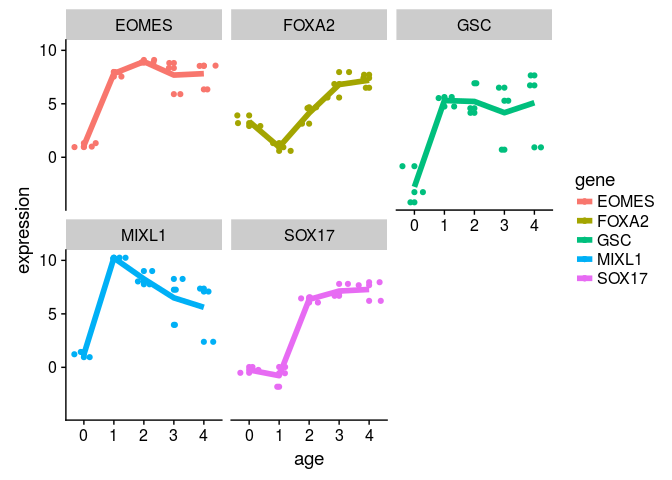
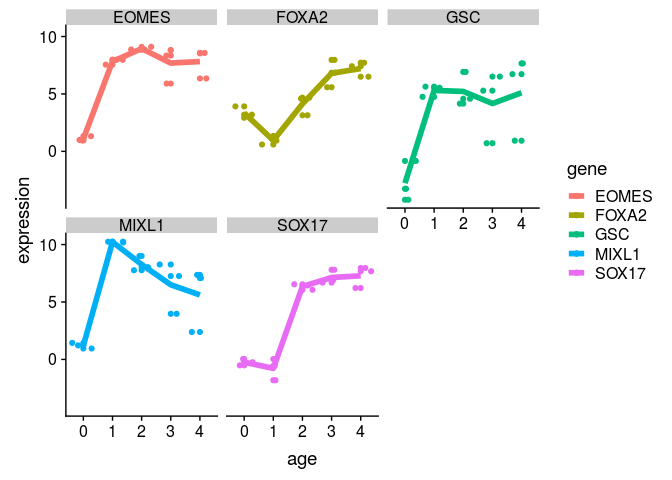
saved DE data for 109658 (for enrichment analysis)

diff --git a/analysis_of_public_data/GSE109658/GSE109658_data_analysis.md b/analysis_of_public_data/GSE109658/GSE109658_data_analysis.md
@@ -584,6 +584,7 @@ head(commonGenesTrends) %>% kable()
 
 ``` r
 contrastMatrix <- makeContrasts(
+  age1vage0 = age1 - age0,
   age3vage0 = age3 - age0,
   age4vage0 = age4 - age0,
   levels = designMatrix
@@ -602,10 +603,10 @@ time_course_res <- decideTests(contrastFitEb, p.value = cutoff, lfc = 2)
 summary(time_course_res)
 ```
 
-    ##        age3vage0 age4vage0
-    ## Down        1072       990
-    ## NotSig     12610     12608
-    ## Up          1535      1619
+    ##        age1vage0 age3vage0 age4vage0
+    ## Down         441      1072       990
+    ## NotSig     14195     12610     12608
+    ## Up           581      1535      1619
 
 ``` r
 upRegulated109658 <- time_course_res %>%
@@ -626,6 +627,78 @@ save(upRegulated109658, file="upRegulated109658.Rdata")
 save(downRegulated109658, file="downRegulated109658.Rdata")
 ```
 
+for CMAP (top 150 from up and 150 from down)
+============================================
+
+``` r
+load("../../common_upRegulated_52158_109658.Rdata")
+load("../../common_downRegulated_52158_109658.Rdata")
+
+#not sure here...
+genRef <- topTable(contrastFitEb, number = Inf, p.value=cutoff, lfc=1, coef = 'age4vage0')
+
+#taking upregulated genes
+referenceUpregulated <- genRef[common_upRegulated_3,]
+referenceUpregulated <-  referenceUpregulated[with(referenceUpregulated, order(adj.P.Val)), ]
+referenceUpregulatedLogSorted <- referenceUpregulated[with(referenceUpregulated, order(logFC, decreasing = T)), ]
+
+#taking downregulated genes
+referenceDownregulated <- genRef[common_downRegulated_3,]
+referenceDownregulated <-  referenceDownregulated[with(referenceDownregulated, order(adj.P.Val)), ]
+referenceDownregulatedLogSorted <- referenceDownregulated[with(referenceDownregulated, order(logFC)), ]
+
+#take 150 upregulated genes (by logFC)
+first_up <- rownames(referenceUpregulatedLogSorted)[1:150]
+fileConn<-file("~/Papers/CMAP/common_Upregulated_3_109658_LogSorted.grp")
+writeLines(first_up, fileConn)
+close(fileConn)
+
+#take 150 downregulated genes (by logFC)
+first_down <- rownames(referenceDownregulatedLogSorted)[1:150]
+fileConn2<-file("~/Papers/CMAP/common_Downregulated_3_109658_LogSorted.grp")
+writeLines(first_down, fileConn2)
+close(fileConn2)
+```
+
+To array probes:
+
+``` r
+x <- hgu133aSYMBOL
+# Get the probe identifiers - gene symbol mappings
+mapped_probes <- mappedkeys(x)
+# Convert to a dataframe
+genesym.probeid <- as.data.frame(x[mapped_probes])
+head(genesym.probeid)
+```
+
+    ##    probe_id symbol
+    ## 1   1053_at   RFC2
+    ## 2    117_at  HSPA6
+    ## 3    121_at   PAX8
+    ## 4 1255_g_at GUCA1A
+    ## 5   1316_at   THRA
+    ## 6   1320_at PTPN21
+
+``` r
+probe_up <- genesym.probeid %>%
+  filter(symbol %in% first_up) 
+
+probe_up <- probe_up$probe_id
+
+probe_down <- genesym.probeid %>%
+  filter(symbol %in% first_down) 
+
+probe_down <- probe_down$probe_id
+
+fileConn2<-file("~/Papers/CMAP/common_Downregulated_3_109658_LogSortedProbes.grp")
+writeLines(probe_down, fileConn2)
+close(fileConn2)
+
+fileConn2<-file("~/Papers/CMAP/common_Upregulated_3_109658_LogSortedProbes.grp")
+writeLines(probe_up, fileConn2)
+close(fileConn2)
+```
+
 Gene set enrichment analysis of GSE109658
 =========================================
 
@@ -633,6 +706,15 @@ Gene set enrichment analysis of GSE109658
 if (!file.exists("GO.xml")) { goToday("GO.xml") }
 
 DEgenes_0h_96h <- topTable(contrastFitEb, number = Inf, coef = "age4vage0")
+DEgenes_0h_24h <- topTable(contrastFitEb, number = Inf, coef = "age1vage0")
+
+#for pathway enrichment analysis
+DEgenes_0h_96h_109658 <- DEgenes_0h_96h
+DEgenes_0h_24h_109658 <- DEgenes_0h_24h
+save(DEgenes_0h_96h_109658, file = "DEgenes_0h_96h_109658.Rdata")
+save(DEgenes_0h_24h_109658, file = "DEgenes_0h_24h_109658.Rdata")
+################################
+
 
 ggplot(data = DEgenes_0h_96h, aes(x = logFC, y = -log(adj.P.Val), color = (-log(adj.P.Val) > 3)))+
   scale_colour_manual(name = 'p-value < 0.05', values = setNames(c('red','black'),c(T, F)), labels = c("False", "True"))+
@@ -660,7 +742,7 @@ ggplot(data = DEgenes_0h_96h, aes(x = logFC, y = -log(adj.P.Val), color = (-log(
         legend.title=element_text(size=14))
 ```
 
-![](GSE109658_data_analysis_files/figure-markdown_github/unnamed-chunk-40-1.png)
+![](GSE109658_data_analysis_files/figure-markdown_github/unnamed-chunk-43-1.png)
 
 ``` r
 ermineInputGeneScores <- DEgenes_0h_96h %>% 
@@ -707,11 +789,11 @@ enrichmentResult$results %>% arrange(MFPvalue) %>% head(10) %>% kable()
 | cell fate commitment                     | <GO:0045165> |        165|       164|  0.0527511|     0|                0|     0e+00|          0.0000000|               0.993| NA      | ACVR1|APC|APC2|ARHGEF2|ARX|AXIN1|BCL11B|BCL2|BMP2|BMP4|BRAF|CASP3|CDC42|CDC73|CDON|CEBPB|CHD5|CTNNB1|CTR9|CYLD|CYP26B1|DLL1|DLX2|DMRTA2|DOCK7|DSCAML1|EOMES|EPAS1|EPOP|ERBB4|ETS2|ETV2|EVX1|EYA1|EYA2|FEV|FGF10|FGF13|FGF8|FGFR2|FKBP8|FOXA1|FOXA2|FOXN4|GAP43|GAS1|GATA2|GATA3|GATA4|GATA5|GATA6|GLI2|GLI3|GSC|HES1|HEY2|HNF1B|ID2|IFRD1|IHH|IL6|IRF4|ISL1|ISL2|ITGB1|JAG1|JAG2|KDM6B|KLF4|LATS1|LATS2|LEO1|MCL1|MESP1|MITF|MNX1|NANOG|NKX2-5|NKX6-1|NODAL|NOTCH1|NOTCH2|NOTCH3|NOTCH4|NR2F2|NRG1|NRP1|NTF4|NTRK3|OLIG2|ONECUT2|PAF1|PAX2|PAX6|PAX7|PDPN|PITX1|PML|POU5F1|POU6F2|PPARG|PPDPF|PRDM1|PRDM14|PRKDC|PROX1|PRRX1|PSEN1|PTCH1|PTCH2|RAB10|RARA|RBPJ|RHOA|ROR2|RORA|RTF1|RUNX2|SATB2|SFRP1|SH3PXD2B|SIX1|SIX2|SMAD1|SMAD2|SMAD4|SMAD5|SMO|SOX12|SOX17|SOX18|SOX2|SOX5|SOX6|SOX8|SOX9|SPN|SPRY2|STAT3|STAT6|SUFU|TBR1|TBX19|TBX2|TBX3|TBX6|TCF3|TCF7L2|TEAD3|TGFB1I1|TGFBR1|WNT11|WNT2B|WNT3|WNT3A|WNT4|WNT5A|WNT5B|WNT6|WNT8A|WNT9B|WT1|ZFPM1|ZNF521|                                                                                                                                                |
 | embryonic skeletal system morphogenesis  | <GO:0048704> |         73|        73|  0.0310772|     0|                0|     0e+00|          0.0000000|               0.876| NA      | ALX1|ALX3|AXIN1|BMP4|BMP7|CHST11|COL11A1|COL2A1|CTNNB1|DLG1|DLX2|DSCAML1|EIF4A3|EYA1|FGFR2|FLVCR1|FUZ|GLI3|GNAS|GRHL2|GSC|HOXA1|HOXA3|HOXB1|HOXB2|HOXB3|HOXB4|HOXB5|HOXB6|HOXB7|HOXB8|HYAL1|IFT140|IRX5|LHX1|MDFI|MED12|MEGF8|MMP14|MMP16|MTHFD1|MTHFD1L|MYCN|NDST1|NIPBL|NODAL|NOG|PCGF2|PDGFRA|PRRX1|RDH10|RUNX2|SATB2|SETD2|SHOX2|SIX1|SIX2|SIX4|SLC39A1|SLC39A3|SMAD2|SMAD3|SOX11|TFAP2A|TGFB3|TGFBR1|TGFBR2|TULP3|TWIST1|WDR19|WDR60|WNT9B|ZEB1|                                                                                                                                                                                                                                                                                                                                                                                                                                                                                                                                                                                                                                                          |
 | skeletal system morphogenesis            | <GO:0048705> |        160|       160|  0.0364407|     0|                0|     0e+00|          0.0000000|               0.965| NA      | ACP5|ACVR2B|ALPL|ALX1|ALX3|ANKRD11|ARID5B|AXIN1|AXIN2|BMP1|BMP4|BMP6|BMP7|BMPR1B|BMPR2|CARM1|CDX1|CER1|CHST11|CHSY1|COL11A1|COL13A1|COL1A1|COL27A1|COL2A1|CSGALNACT1|CSRNP1|CTGF|CTNNB1|CYP26B1|DHRS3|DLG1|DLX2|DLX5|DSCAML1|EIF4A3|EYA1|FBN2|FGF18|FGF4|FGFR1|FGFR2|FGFR3|FLVCR1|FMN1|FOXC1|FOXN3|FREM1|FUZ|GLG1|GLI3|GNAS|GRHL2|GSC|HAS2|HHIP|HOXA1|HOXA3|HOXB1|HOXB2|HOXB3|HOXB4|HOXB5|HOXB6|HOXB7|HOXB8|HYAL1|HYAL2|IFT140|IFT80|IHH|IMPAD1|INPPL1|INSIG1|INSIG2|IRX5|LHX1|LRP5|MAPK14|MDFI|MED12|MEF2D|MEGF8|MMP14|MMP16|MMP2|MSX1|MSX2|MTHFD1|MTHFD1L|MYCN|NAB1|NAB2|NDST1|NIPBL|NLE1|NODAL|NOG|NPPC|PAPPA2|PCGF2|PDGFRA|PEX7|PHOSPHO1|PKD1|PLEKHA1|POC1A|PPARGC1B|PRKRA|PRRX1|PSEN1|RAB23|RAB33B|RARA|RARB|RARG|RDH10|ROR2|RUNX2|SATB2|SERPINH1|SETD2|SFRP1|SFRP2|SGPL1|SH3PXD2B|SHOX2|SIX1|SIX2|SIX4|SKI|SLC39A1|SLC39A3|SMAD2|SMAD3|SOX11|SOX9|SP5|STC1|TCF15|TEK|TFAP2A|TGFB1|TGFB3|TGFBR1|TGFBR2|THBS3|THRA|TIPARP|TRIP11|TRPV4|TULP3|TWIST1|WDR19|WDR48|WDR60|WNT9B|WWOX|ZEB1|ZFAND5|                                                                                                              |
+| embryonic skeletal system development    | <GO:0048706> |         94|        93|  0.0345763|     0|                0|     0e+00|          0.0000000|               0.966| NA      | ACVR2A|ALX1|ALX3|AXIN1|BMP4|BMP7|CHST11|COL11A1|COL1A1|COL2A1|CTNNB1|DEAF1|DLG1|DLX2|DSCAML1|EIF4A3|EXT1|EYA1|FGFR2|FLVCR1|FUZ|GLI3|GNAS|GRHL2|GSC|HOXA1|HOXA3|HOXB1|HOXB2|HOXB3|HOXB4|HOXB5|HOXB6|HOXB7|HOXB8|HOXB9|HYAL1|IFT140|IHH|IRX5|KIAA1217|LHX1|MBTD1|MDFI|MED12|MEGF8|MKS1|MMP14|MMP16|MTHFD1|MTHFD1L|MYCN|NDST1|NIPBL|NODAL|NOG|PAX7|PBX1|PCGF2|PCSK5|PDGFRA|PRRX1|RBP4|RDH10|RUNX2|SATB2|SETD2|SHOX2|SIX1|SIX2|SIX4|SLC35D1|SLC39A1|SLC39A3|SMAD2|SMAD3|SOX11|SP3|SULF1|SULF2|TAPT1|TFAP2A|TGFB3|TGFBR1|TGFBR2|TULP3|TWIST1|WDR19|WDR60|WNT11|WNT5A|WNT9B|ZEB1|                                                                                                                                                                                                                                                                                                                                                                                                                                                                                                                                    |
 | mesenchyme development                   | <GO:0060485> |        171|       171|  0.0376912|     0|                0|     0e+00|          0.0000000|               0.995| NA      | ACTA1|ACTA2|ACTC1|ACTG2|ACVR1|ACVRL1|ADAM15|ALDH1A2|ALX1|AMH|BASP1|BCL2|BMP2|BMP4|BMP5|BMP7|BMPR1A|BMPR2|BNC2|CFL1|CITED2|CORO1C|CRELD1|CTNNB1|CUL7|DCHS1|DDX17|DDX5|DLG5|DLL3|EDN1|EDNRA|EDNRB|EFNA1|EFNB1|ENG|EOMES|EPB41L5|ERBB3|ERBB4|ERG|EXOC4|FAM83D|FGF10|FGF8|FGFR1|FGFR2|FOLR1|FOXC1|FOXD1|FOXF1|FOXF2|FOXH1|FRZB|GATA4|GBX2|GDNF|GSC|GSK3B|HAND1|HAND2|HAS2|HES1|HEY1|HEY2|HEYL|HGF|HIF1A|HMGA2|HNRNPAB|ISL1|JAG1|KBTBD8|KITLG|KLHL12|LAMA5|LEF1|LIMS1|LOXL2|LOXL3|LRP6|MAPK1|MAPK3|MDM2|MESP1|MSX1|MSX2|NEDD4|NKX2-5|NODAL|NOG|NOLC1|NOTCH1|NRG1|NRP1|NRTN|NUP133|OLFM1|OVOL2|PAX2|PDCD4|PDCD6|PDGFRB|PEF1|PHACTR4|PITX2|PKD2|POGLUT1|PPP3R1|PTK7|RBPJ|RDH10|RET|RTN4|S100A4|SEMA3A|SEMA3B|SEMA3C|SEMA3D|SEMA3E|SEMA3F|SEMA3G|SEMA4A|SEMA4B|SEMA4C|SEMA4D|SEMA4F|SEMA4G|SEMA7A|SFRP1|SFRP2|SIX1|SIX2|SIX4|SMAD2|SMAD3|SMAD4|SMO|SNAI1|SNAI2|SOX10|SOX11|SOX8|SOX9|SPRY1|STAT1|TAPT1|TBX2|TBX20|TCF15|TCOF1|TEAD2|TGFB1|TGFB2|TGFBR1|TGFBR2|TGFBR3|TMEM100|TRIM28|TWIST1|WNT11|WNT3A|WNT4|WNT5A|WNT8A|WT1|WWTR1|YAP1|ZEB2|ZFP36L1|ZFPM2|                                                             |
 | sensory organ morphogenesis              | <GO:0090596> |        185|       185|  0.0343805|     0|                0|     0e+00|          0.0000000|               0.984| NA      | ABR|AGTPBP1|AHI1|ALDH1A3|AQP5|ARID1A|ARL6|ATP8A2|AXIN1|BAK1|BAX|BBS4|BCAR3|BCR|BMP4|BMP7|C12orf57|CALB1|CDON|CELSR1|CEP290|CHD7|CHRNA10|CHRNA9|COL11A1|COL2A1|COL5A1|COL5A2|COL8A1|COL8A2|CTHRC1|CTNNB1|CYP26B1|DIO3|DLL1|DLX5|DSCAM|DVL1|DVL2|EDN1|EFEMP1|EGF|EPHA2|EPHB1|EPHB2|EYA1|FBN1|FBN2|FGF10|FGF8|FGFR1|FGFR2|FJX1|FOXF2|FOXL2|FOXN4|FRS2|FRZB|FZD2|FZD3|FZD5|FZD6|GATA2|GATA3|GBX2|GDF11|GLI2|GLI3|GNAT2|GRHL3|GSC|HCN1|HDAC1|HDAC2|HESX1|HIF1A|HIPK1|HIPK2|HMGN1|HMX2|HOXA1|HPN|IFT122|IHH|INSIG1|INSIG2|IRX5|ITGA8|JAG1|KCNQ4|KDM2B|LHX1|LRIG1|LRIG3|LRP5|LRP6|MAFB|MAN2A1|MAPK1|MAPK3|MEGF11|MEIS1|MFAP2|MFN2|MSX1|MYO3A|MYO3B|MYO7A|NAGLU|NF1|NIPBL|NKD1|NOG|NRL|NTN1|OLFM3|PAX2|PAX6|PHACTR4|PITX2|PRDM1|PRKCI|PRKRA|PROM1|PROX1|PROX2|PRRX1|PTK7|PTN|PTPRM|RARB|RARG|RBP4|RDH13|RING1|ROM1|ROR2|RORB|RPGRIP1|RPL38|SALL1|SCRIB|SDK1|SDK2|SEC24B|SHROOM2|SIX1|SIX2|SIX4|SKI|SLC9A3R1|SLITRK6|SOBP|SOD1|SOX11|SOX8|SOX9|SP3|SPRY2|STAT3|STRA6|TBC1D20|TBX2|TCAP|TDRD7|TFAP2A|THY1|TOPORS|TRIOBP|TSHZ1|TSKU|TSPAN12|TULP1|TWIST1|USH1C|USH1G|VANGL2|VEGFA|WDPCP|WDR19|WNT2B|WNT3A|WNT5A|YY1|ZEB1| |
-| formation of primary germ layer          | <GO:0001704> |        103|       103|  0.0299450|     0|                0|     1e-04|          0.0371125|               0.982| NA      | ACVR1|ARID1A|ATOH8|AXIN1|BMP4|BMP7|BMPR1A|BMPR2|CDC73|CHRD|COL11A1|COL12A1|COL4A2|COL6A1|COL7A1|COL8A1|CRB2|CTNNB1|CTR9|DKK1|DUSP1|DUSP2|DUSP4|DUSP5|EOMES|EPB41L5|ETS2|ETV2|EXOC4|EXT2|EYA1|EYA2|FGFR2|FN1|FOXC1|FOXF1|GATA6|GPI|HAND1|HMGA2|HNF1B|HSBP1|INHBA|ITGA2|ITGA3|ITGA4|ITGA5|ITGA7|ITGA8|ITGAV|ITGB1|ITGB2|ITGB3|ITGB4|ITGB5|KDM6A|KDM6B|KIF16B|KLF4|LAMA3|LAMB1|LAMB3|LEF1|LEO1|LHX1|MESP1|MESP2|MIXL1|MMP14|MMP15|MMP2|MMP9|MSGN1|NANOG|NF2|NODAL|NOG|PAF1|PAX2|POFUT2|POU5F1|PRKAR1A|RTF1|SETD2|SIX2|SMAD1|SMAD2|SMAD3|SNAI1|SOX17|SOX2|SOX7|SRF|TBX20|TBX6|TWSG1|TXNRD1|VTN|WLS|WNT11|WNT3|WNT3A|WNT5A|                                                                                                                                                                                                                                                                                                                                                                                                                                                                                         |
-| morphogenesis of a branching structure   | <GO:0001763> |        149|       148|  0.0280824|     0|                0|     1e-04|          0.0329889|               0.999| NA      | ACVR1|ADAMTS16|ADM|AR|B4GALT1|BCL2|BMP2|BMP4|BMP7|BTRC|CELSR1|CITED1|CLIC4|COL13A1|COL4A1|CSF1|CTNNB1|CTNNBIP1|CTSH|CTSZ|DAG1|DCHS1|DDR1|DLG1|DLG5|DLX2|DRD2|EDN1|EDNRA|EGF|ENG|EPHA2|EPHA7|ERMN|ESRP2|EYA1|FAT4|FEM1B|FGF10|FGF2|FGF8|FGFR1|FGFR2|FOXA1|FOXD1|FOXF1|FRS2|FZD5|GBX2|GDNF|GLI2|GLI3|GNA13|GPC3|GRB2|GREM1|GRHL2|GZF1|HHEX|HHIP|HNF1B|HOXB13|IHH|ILK|KDM5B|KRAS|LAMA5|LEF1|LHX1|LRP5|LRP6|MED1|MET|MKS1|MMP14|MSX2|MYC|MYCN|NFATC4|NKX3-1|NOG|NOTCH1|NOTCH4|NPNT|NRARP|NRP1|PAK1|PAX2|PBX1|PGF|PGR|PHB2|PITX2|PKD1|PKD2|PLXNA1|PLXND1|PML|PPP1CA|PPP3R1|PRDM1|PROX1|PTCH1|RASIP1|RBM15|RDH10|RERE|RSPO2|RSPO3|SALL1|SEMA3A|SEMA3C|SEMA3E|SETD2|SFRP1|SFRP2|SIX1|SLIT2|SMAD4|SOCS3|SOX10|SOX8|SOX9|SPINT1|SPINT2|SPRY1|SPRY2|SRC|SRF|ST14|STK4|TBX20|TBX3|TDGF1|TGFB1|TGFBR2|TGM2|TIMELESS|TNC|VANGL2|VDR|VEGFA|WNT4|WNT5A|WNT6|WNT9B|WT1|YAP1|                                                                                                                                                                                                                                                   |
-| cardiac chamber morphogenesis            | <GO:0003206> |        105|       105|  0.0299759|     0|                0|     1e-04|          0.0296900|               1.000| NA      | ACVR1|ADAMTS1|BMP4|BMP5|BMP7|BMPR1A|BMPR2|CHD7|CITED2|COL11A1|CPE|CYR61|DHRS3|DSP|EGLN1|ENG|FGF8|FGFR2|FGFRL1|FHL2|FKBP1A|FOXC1|FOXF1|FOXH1|FZD1|FZD2|GATA3|GATA4|GATA6|GJA5|GRHL2|GSK3A|HAND1|HAND2|HEG1|HES1|HEY1|HEY2|HEYL|HIF1A|ID2|ISL1|JAG1|LRP2|MDM2|MED1|MESP1|MIR17HG|MSX2|MYL3|NKX2-5|NOG|NOTCH1|NOTCH2|NPY2R|NPY5R|NRG1|NRP1|NRP2|OVOL2|PARVA|PITX2|PKP2|PPP1R13L|PROX1|PTCD2|RARA|RARB|RBM15|RBP4|RBPJ|RXRA|RYR2|SAV1|SEMA3C|SFRP2|SHOX2|SMAD4|SMAD6|SMAD7|SMARCD3|SMO|SOS1|SOX11|SOX4|SRF|TBX2|TBX20|TBX3|TEK|TGFB1|TGFB2|TGFBR1|TGFBR2|TGFBR3|TNNC1|TNNI1|TNNI3|TPM1|UBE4B|VANGL2|WNT11|WNT5A|ZFPM1|ZFPM2|                                                                                                                                                                                                                                                                                                                                                                                                                                                                                       |
+| formation of primary germ layer          | <GO:0001704> |        103|       103|  0.0299450|     0|                0|     1e-04|          0.0329889|               0.982| NA      | ACVR1|ARID1A|ATOH8|AXIN1|BMP4|BMP7|BMPR1A|BMPR2|CDC73|CHRD|COL11A1|COL12A1|COL4A2|COL6A1|COL7A1|COL8A1|CRB2|CTNNB1|CTR9|DKK1|DUSP1|DUSP2|DUSP4|DUSP5|EOMES|EPB41L5|ETS2|ETV2|EXOC4|EXT2|EYA1|EYA2|FGFR2|FN1|FOXC1|FOXF1|GATA6|GPI|HAND1|HMGA2|HNF1B|HSBP1|INHBA|ITGA2|ITGA3|ITGA4|ITGA5|ITGA7|ITGA8|ITGAV|ITGB1|ITGB2|ITGB3|ITGB4|ITGB5|KDM6A|KDM6B|KIF16B|KLF4|LAMA3|LAMB1|LAMB3|LEF1|LEO1|LHX1|MESP1|MESP2|MIXL1|MMP14|MMP15|MMP2|MMP9|MSGN1|NANOG|NF2|NODAL|NOG|PAF1|PAX2|POFUT2|POU5F1|PRKAR1A|RTF1|SETD2|SIX2|SMAD1|SMAD2|SMAD3|SNAI1|SOX17|SOX2|SOX7|SRF|TBX20|TBX6|TWSG1|TXNRD1|VTN|WLS|WNT11|WNT3|WNT3A|WNT5A|                                                                                                                                                                                                                                                                                                                                                                                                                                                                                         |
+| cardiac chamber development              | <GO:0003205> |        134|       134|  0.0302101|     0|                0|     1e-04|          0.0296900|               0.998| NA      | ACVR1|ADAMTS1|ANK2|AP2B1|ARID1A|BMP4|BMP5|BMP7|BMPR1A|BMPR2|CHD7|CITED2|COL11A1|CPE|CRELD1|CYR61|DCTN5|DHRS3|DNM2|DSP|EGLN1|ENG|FGF8|FGFR2|FGFRL1|FHL2|FKBP1A|FOXC1|FOXF1|FOXH1|FRS2|FZD1|FZD2|GATA3|GATA4|GATA6|GJA5|GRHL2|GSK3A|HAND1|HAND2|HEG1|HES1|HEY1|HEY2|HEYL|HIF1A|ID2|ISL1|JAG1|KCNK2|LMO4|LRP2|LTBP1|LUZP1|MAML1|MDM2|MED1|MESP1|MIR17HG|MSX2|MYL3|MYOCD|NDST1|NKX2-5|NOG|NOTCH1|NOTCH2|NPHP3|NPRL3|NPY2R|NPY5R|NRG1|NRP1|NRP2|OVOL2|PARVA|PCSK5|PITX2|PKP2|PLXND1|PPP1R13L|PRDM1|PROX1|PTCD2|PTK7|RARA|RARB|RBM15|RBP4|RBPJ|RXRA|RYR2|SALL1|SALL4|SAV1|SCN5A|SEMA3C|SFRP2|SHOX2|SMAD4|SMAD6|SMAD7|SMARCD3|SMO|SNX17|SOS1|SOX11|SOX4|SRF|STRA6|SUFU|TAB1|TBX2|TBX20|TBX3|TEK|TGFB1|TGFB2|TGFBR1|TGFBR2|TGFBR3|TMEM65|TNNC1|TNNI1|TNNI3|TPM1|TRIP11|UBE4B|VANGL2|WNT11|WNT5A|ZFPM1|ZFPM2|                                                                                                                                                                                                                                                                                                           |
 
 ``` r
 enrichmentResult$results %>% 
@@ -726,14 +808,14 @@ enrichmentResult$results %>%
 |:---------------------------------------------------------------------------------------|:------------------|:---------------------|
 | sensory organ morphogenesis                                                            | 0                 | 0.0000000            |
 | mesenchyme development                                                                 | 0                 | 0.0000000            |
+| embryonic skeletal system development                                                  | 0                 | 0.0000000            |
 | skeletal system morphogenesis                                                          | 0                 | 0.0000000            |
 | embryonic skeletal system morphogenesis                                                | 0                 | 0.0000000            |
 | cell fate commitment                                                                   | 0                 | 0.0000000            |
 | anterior/posterior pattern specification                                               | 0                 | 0.0000000            |
 | gastrulation                                                                           | 0                 | 0.0000000            |
-| regulation of transmembrane receptor protein serine/threonine kinase signaling pathway | 0                 | 0.0185562            |
-| morphogenesis of a branching epithelium                                                | 0                 | 0.0197933            |
-| digestive system development                                                           | 0                 | 0.0212071            |
+| regulation of transmembrane receptor protein serine/threonine kinase signaling pathway | 0                 | 0.0174647            |
+| digestive system development                                                           | 0                 | 0.0185562            |
 
 ``` r
 Enrichment <- enrichmentResult$results
@@ -754,4 +836,4 @@ Enrichment %>%
   theme_light() 
 ```
 
-![](GSE109658_data_analysis_files/figure-markdown_github/unnamed-chunk-44-1.png)
+![](GSE109658_data_analysis_files/figure-markdown_github/unnamed-chunk-47-1.png)
